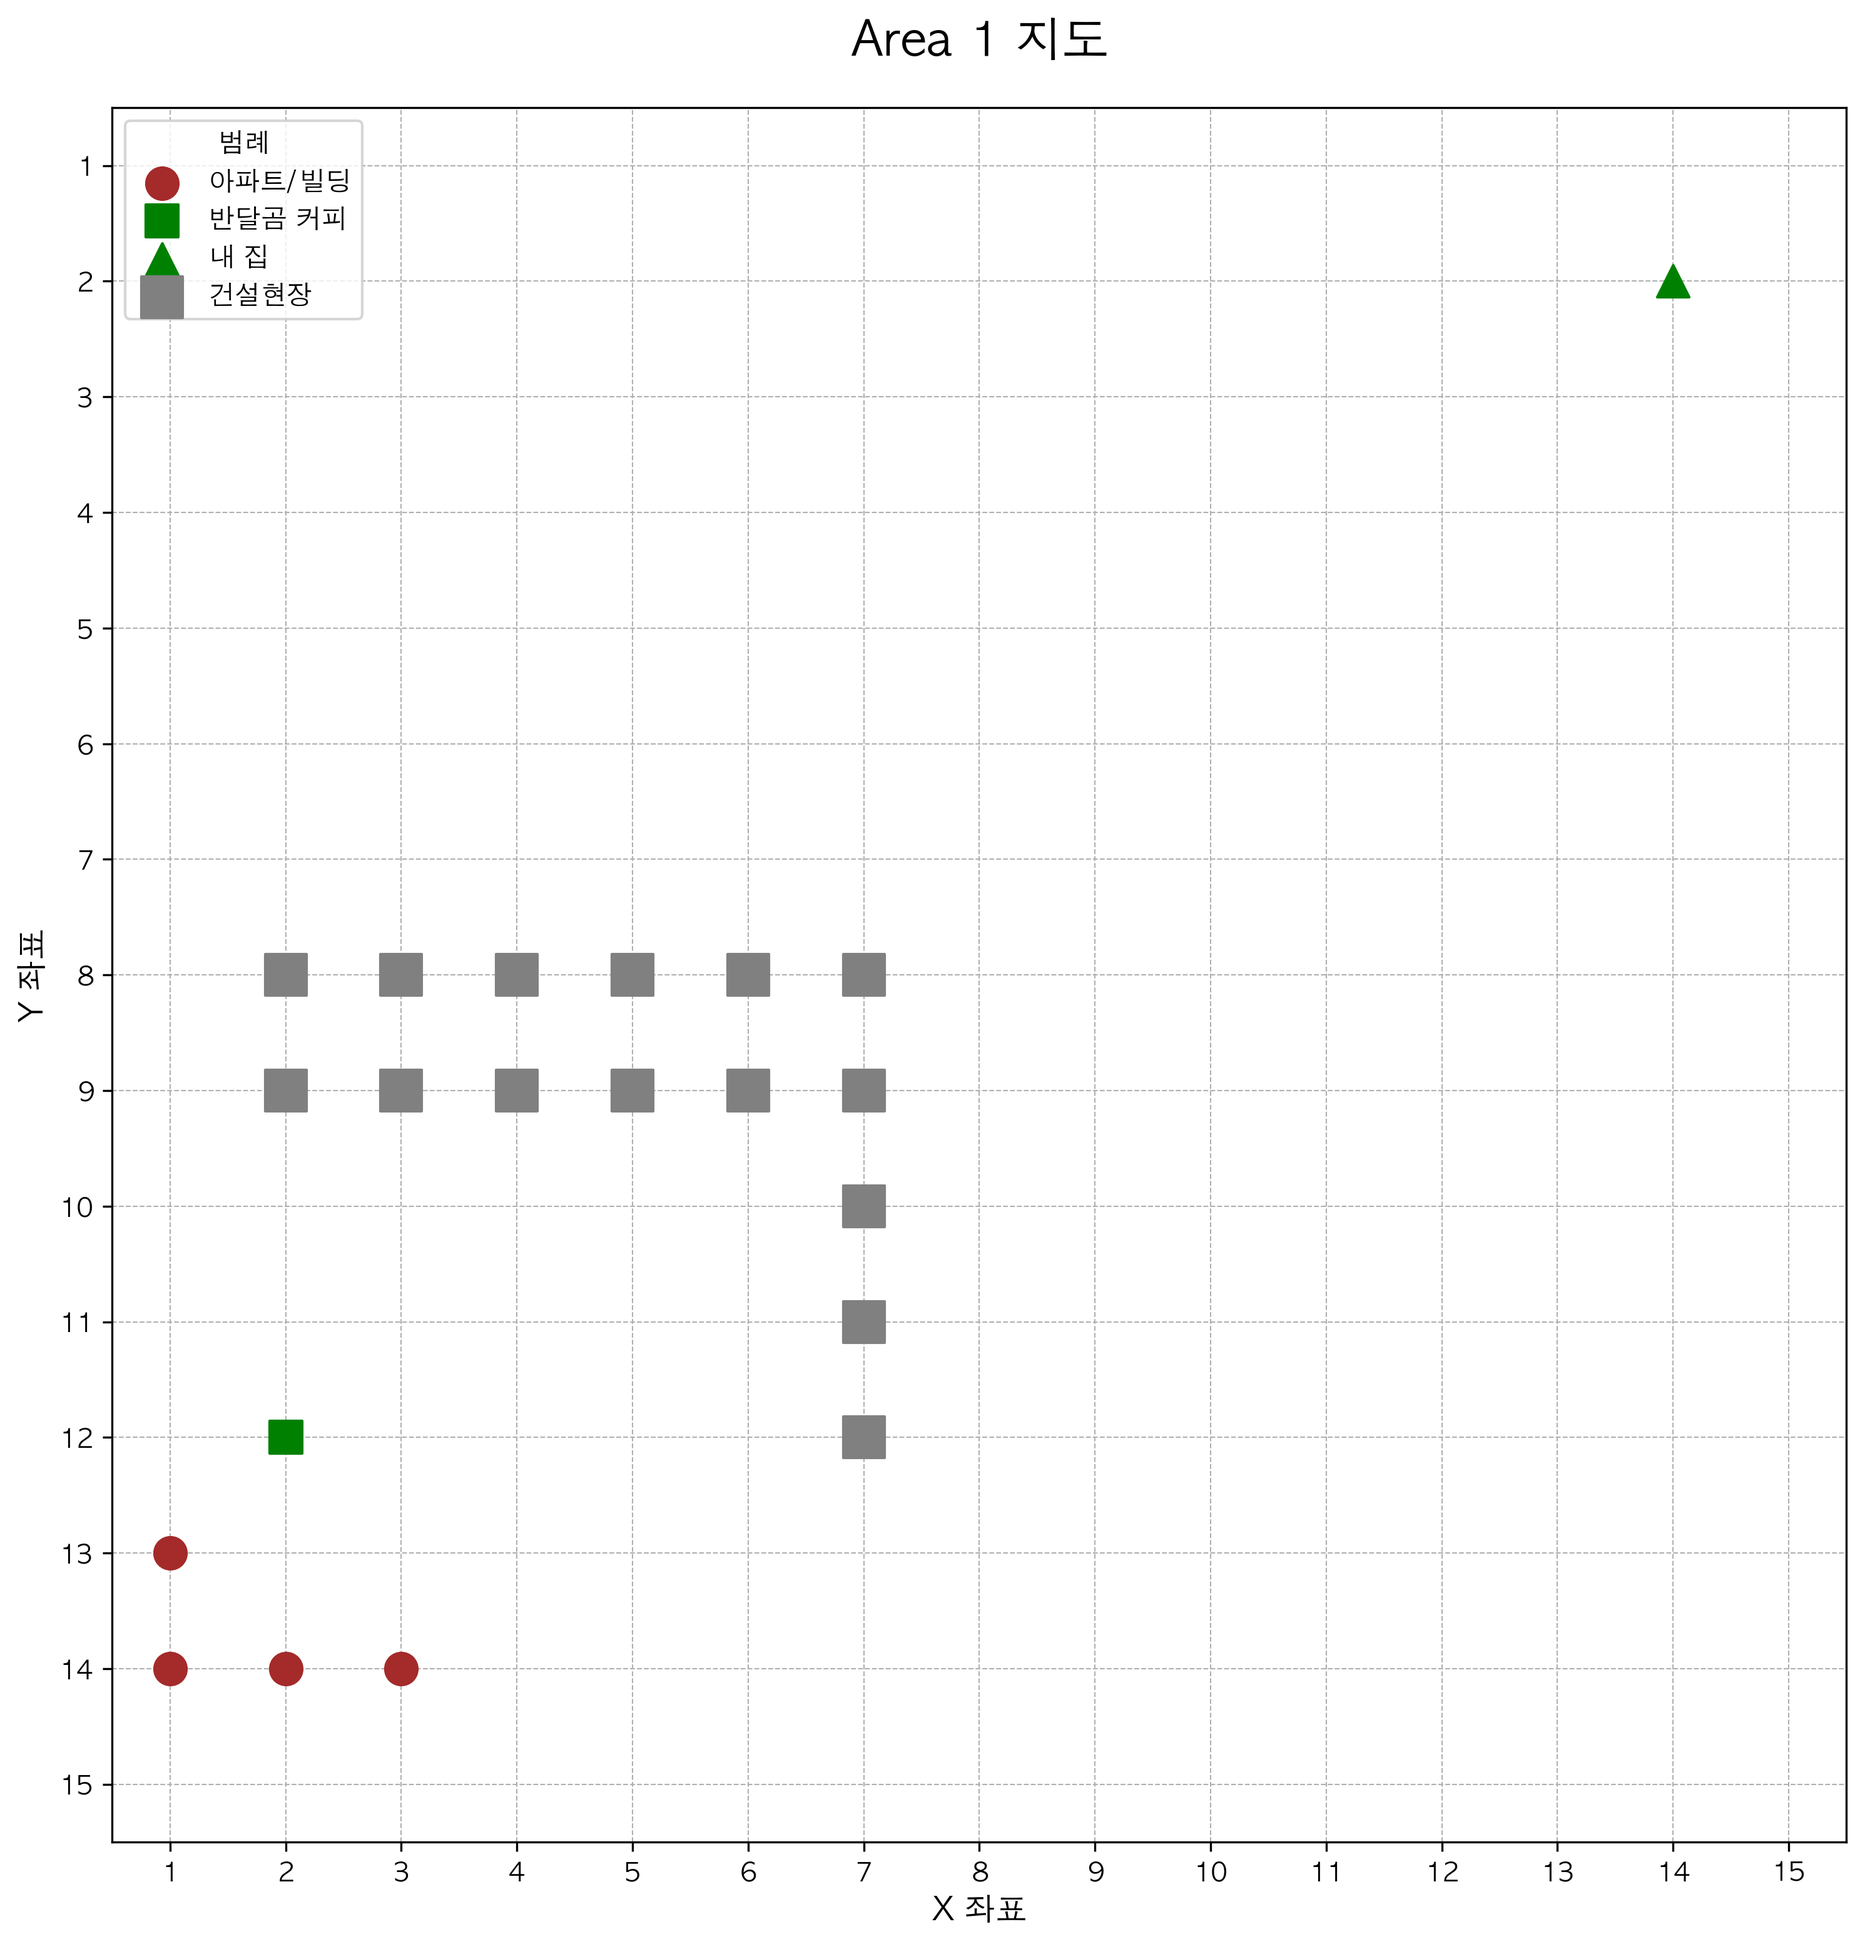
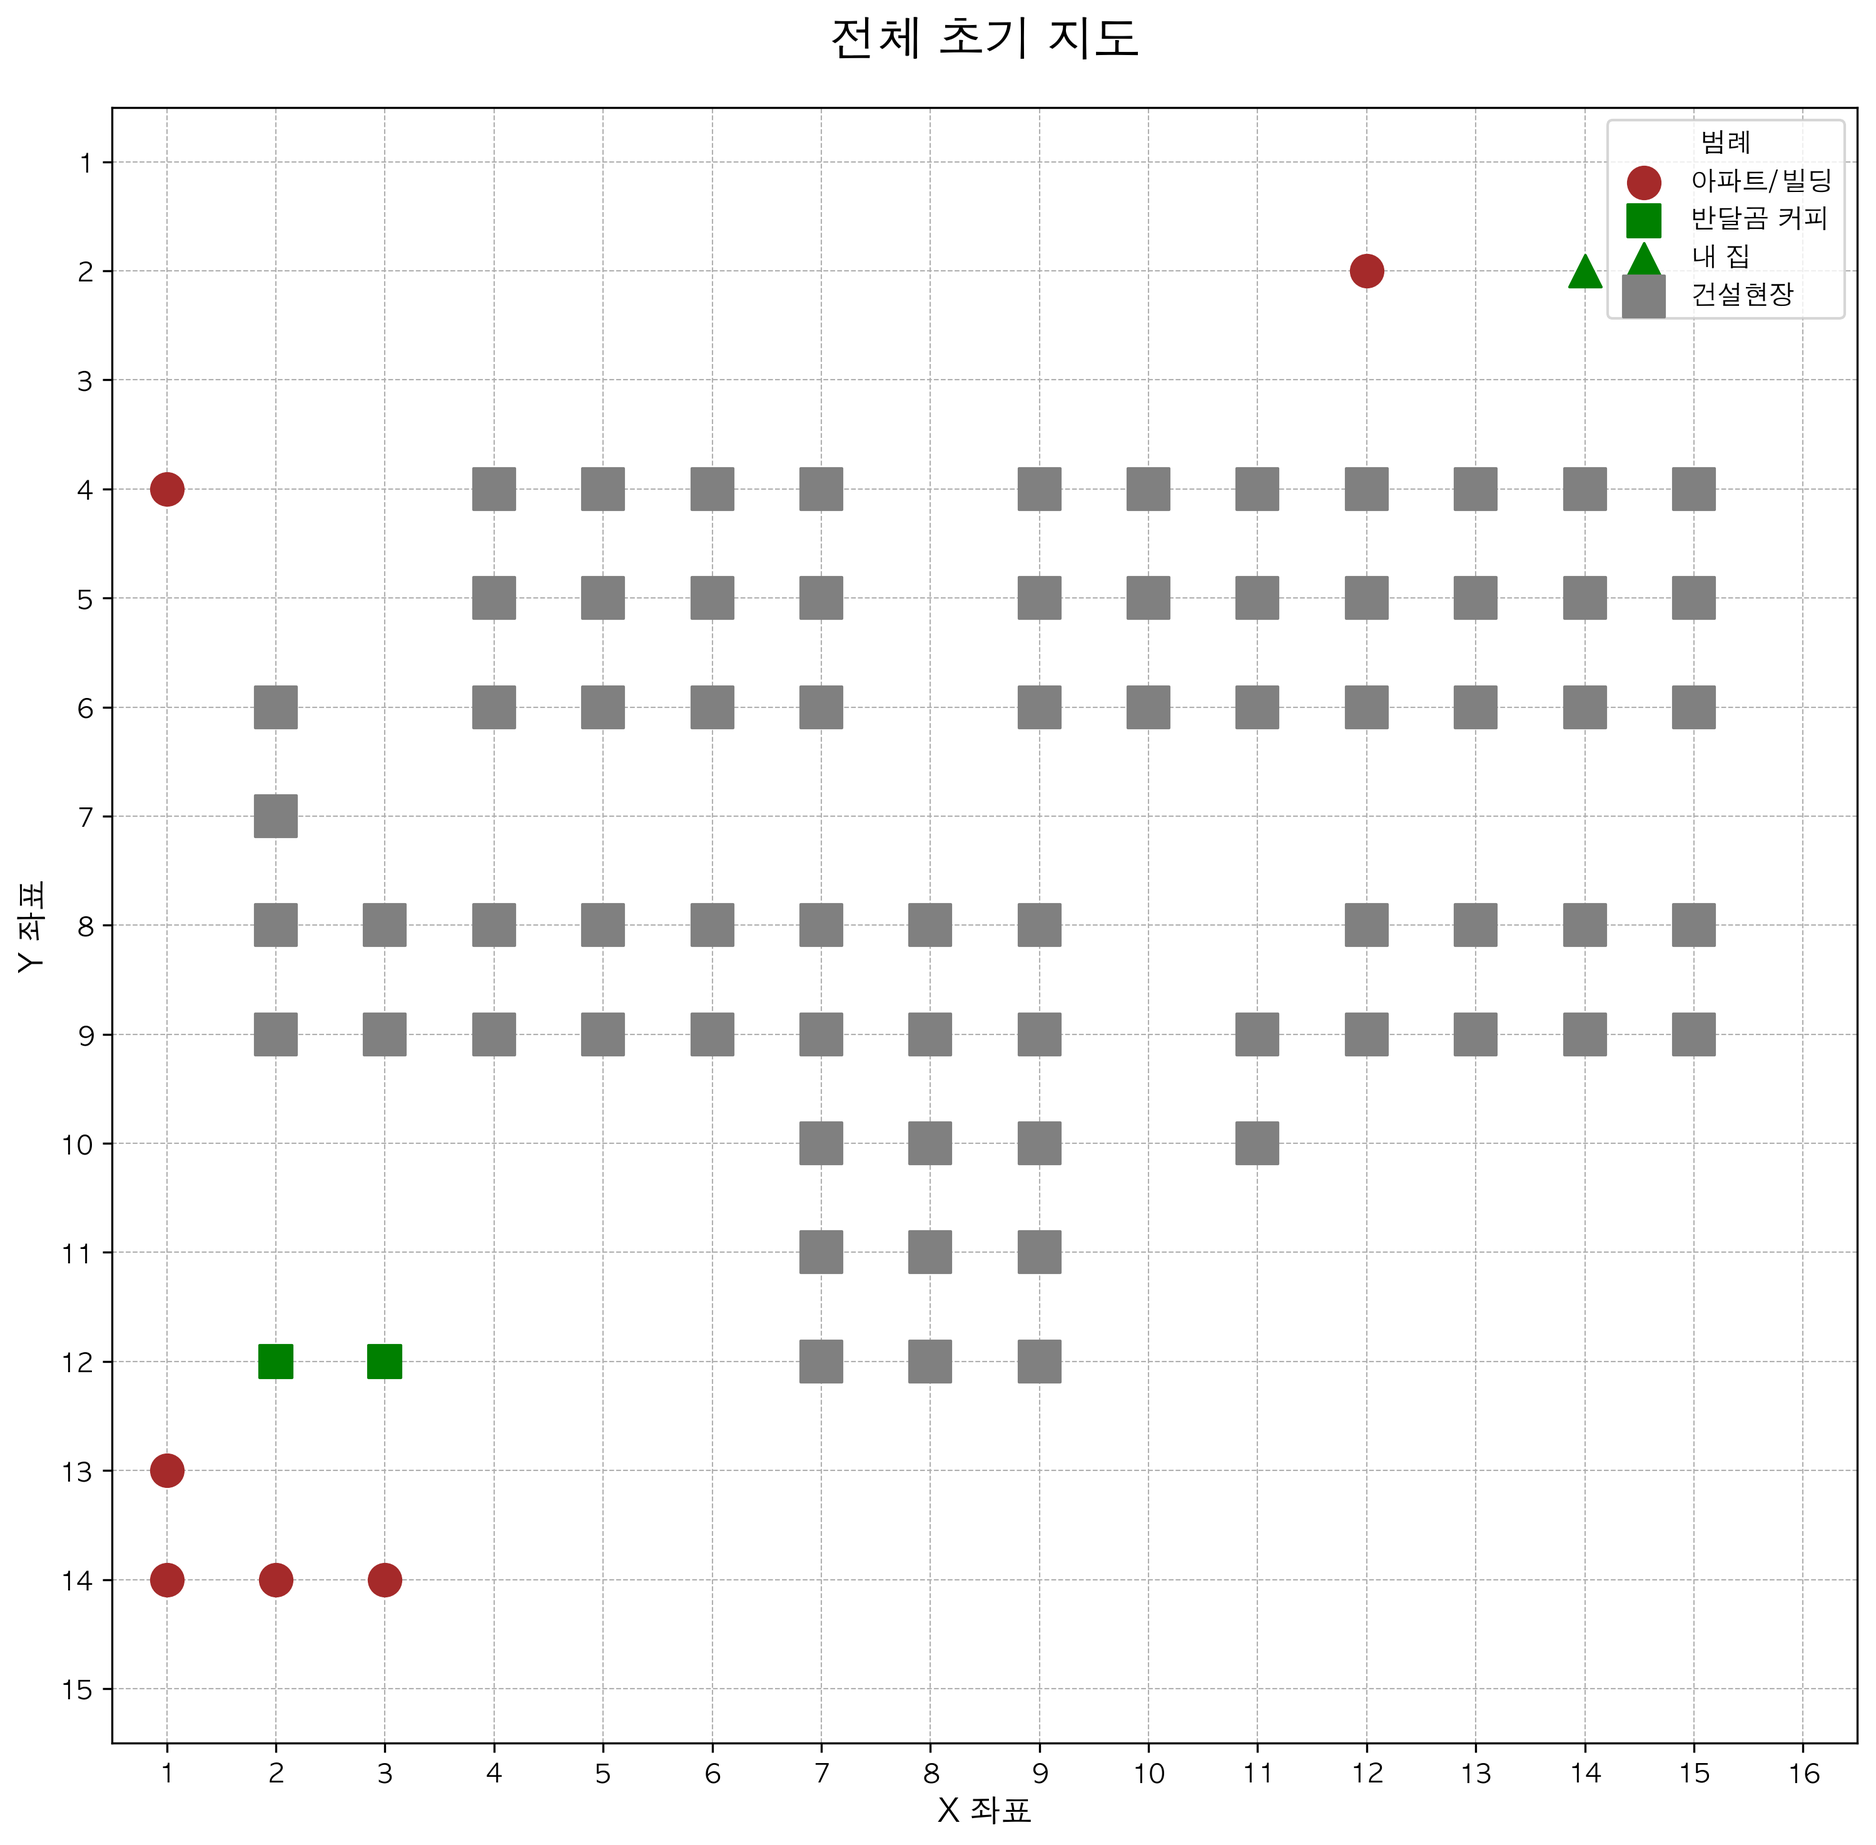
team

diff --git a/team.py b/team.py
@@ -26,9 +26,9 @@ MAP_FILE = 'area_map.csv'
 STRUCT_FILE = 'area_struct.csv'
 CATEGORY_FILE = 'area_category.csv'
 
-INITIAL_MAP_IMAGE = 'map.png'
-FINAL_MAP_IMAGE = 'map_final.png'
-PATH_CSV = 'home_to_cafe.csv'
+INITIAL_MAP_IMAGE = 'map.png' # 모든 area를 포함하는 초기 맵 파일명 변경
+FINAL_MAP_IMAGE = 'map_final.png' # 모든 area를 포함하는 최종 맵 파일명 변경
+PATH_CSV = 'home_to_cafe.csv' # 모든 area를 포함하는 경로 CSV 파일명 변경
 
 
 # ==============================================================================
@@ -37,7 +37,7 @@ PATH_CSV = 'home_to_cafe.csv'
 
 def analyze_and_filter_data():
     """
-    실제 CSV 파일 구조에 맞게 데이터를 병합하고 area 1에 대한 데이터를 필터링합니다.
+    실제 CSV 파일 구조에 맞게 데이터를 병합하고 모든 area 데이터를 필터링합니다.
     """
     print("--- 1단계: 데이터 분석 시작 ---")
     try:
@@ -64,35 +64,34 @@ def analyze_and_filter_data():
     # ConstructionSite가 1이면 이름을 'ConstructionSite'로 강제 설정합니다.
     df_merged.loc[df_merged['ConstructionSite'] == 1, 'name'] = 'ConstructionSite'
 
-    # 여기서 name 열의 공백을 제거합니다.
+    # name 열의 공백을 제거합니다.
     df_merged['name'] = df_merged['name'].str.strip()
 
-    # 4. 실제 구조물(category != 0)과 건설 현장만 필터링합니다.
-    final_df = df_merged[(df_merged['category'] != 0) | (df_merged['ConstructionSite'] == 1)].copy()
+    # 4. 실제 구조물(category != 0)과 건설 현장만 필터링합니다. (모든 area 포함)
+    final_df = df_merged[(df_merged['category'] != 0) | (df_merged['ConstructionSite'] == 1)].copy().reset_index(drop=True)
 
     # 5. 프로젝트의 다른 코드와 호환되도록 열 이름을 변경합니다.
     final_df.rename(columns={'x': 'loc_x', 'y': 'loc_y'}, inplace=True)
     
-    # 6. 필요한 열만 선택하고 area 1 데이터만 필터링합니다.
+    # 6. 필요한 열만 선택합니다. (이제 area 1으로 필터링하지 않습니다)
     final_df = final_df[['loc_x', 'loc_y', 'area', 'name']]
-    area1_df = final_df[final_df['area'] == 1].copy().reset_index(drop=True)
 
-    print("Area 1 데이터 필터링 완료.")
-    print(area1_df)
-
+    print("모든 Area 데이터 필터링 완료.")
+    print(final_df.head()) # 모든 area 포함된 데이터 확인
+    
     # (보너스) 구조물 종류별 요약 통계
-    print("\n--- [보너스] 구조물 종류별 요약 통계 (Area 1) ---")
-    summary = area1_df.groupby('name')[['loc_x', 'loc_y']].describe()
+    print("\n--- [보너스] 구조물 종류별 요약 통계 (전체 Area) ---")
+    summary = final_df.groupby(['area', 'name'])[['loc_x', 'loc_y']].describe()
     print(summary)
     print("-" * 30)
 
-    return area1_df
+    return final_df # 모든 area 데이터 반환
 
 # ==============================================================================
-# 🗺 2단계: 지도 시각화 (기존 코드와 동일)
+# 🗺 2단계: 지도 시각화 (모든 area를 포함하도록 수정)
 # ==============================================================================
 
-def draw_map(data_df, output_filename, title='Area 1 지도', path_coords=None):
+def draw_map(data_df, output_filename, title='전체 지도', path_coords=None): # 제목 변경
     print(f"--- 지도 시각화 시작 ({output_filename}) ---")
     if data_df is None or data_df.empty:
         print('오류: 시각화할 데이터가 없습니다.')
@@ -111,6 +110,7 @@ def draw_map(data_df, output_filename, title='Area 1 지도', path_coords=None):
     ax.set_xlabel('X 좌표', fontsize=12)
     ax.set_ylabel('Y 좌표', fontsize=12)
 
+    # 모든 area 데이터 기준으로 최대 x, y를 설정
     max_x = data_df['loc_x'].max() + 2
     max_y = data_df['loc_y'].max() + 2
     ax.set_xlim(0.5, max_x - 0.5)
@@ -120,6 +120,7 @@ def draw_map(data_df, output_filename, title='Area 1 지도', path_coords=None):
     ax.grid(True, linestyle='--', linewidth=0.5)
     ax.set_aspect('equal')
 
+    # 모든 area의 구조물을 그립니다.
     for name, style in styles.items():
         subset = data_df[data_df['name'] == name]
         if not subset.empty:
@@ -142,7 +143,7 @@ def draw_map(data_df, output_filename, title='Area 1 지도', path_coords=None):
     print("-" * 30)
 
 # ==============================================================================
-# 🚶 3단계: 최단 경로 탐색 (기존 코드와 동일)
+# 🚶 3단계: 최단 경로 탐색 (모든 area를 고려하도록 수정)
 # ==============================================================================
 
 def bfs_shortest_path(grid_size, obstacles, start, end):
@@ -165,25 +166,38 @@ def bfs_shortest_path(grid_size, obstacles, start, end):
                 visited.add(next_pos)
     return None
 
-def find_and_save_shortest_path(data_df):
+def find_and_save_shortest_path(all_data_df): # 모든 area 데이터를 받도록 변경
     print("--- 3단계: 최단 경로 탐색 시작 ---")
-    if data_df is None:
+    if all_data_df is None or all_data_df.empty:
+        print("오류: 경로 탐색을 위한 데이터가 없습니다.")
         return
 
-    start_node = data_df[data_df['name'] == 'MyHome']
-    end_node = data_df[data_df['name'] == 'BandalgomCoffee']
-    obstacles = set(tuple(x) for x in data_df[data_df['name'] == 'ConstructionSite'][['loc_x', 'loc_y']].to_numpy())
+    # 이제 area 필터링 없이 'MyHome'과 'BandalgomCoffee'를 찾습니다.
+    # 여러 개가 있을 경우 첫 번째 것을 사용합니다.
+    start_nodes = all_data_df[all_data_df['name'] == 'MyHome']
+    end_nodes = all_data_df[all_data_df['name'] == 'BandalgomCoffee']
+    
+    # 장애물은 모든 area의 ConstructionSite를 포함합니다.
+    obstacles = set(tuple(x) for x in all_data_df[all_data_df['name'] == 'ConstructionSite'][['loc_x', 'loc_y']].to_numpy())
 
-    if start_node.empty or end_node.empty:
+    if start_nodes.empty or end_nodes.empty:
         print("오류: 'MyHome' 또는 'BandalgomCoffee' 위치를 데이터에서 찾을 수 없습니다.")
-        # 디버깅을 위해 이 부분에 추가
-        print("start_node 내용:\n", start_node)
-        print("end_node 내용:\n", end_node)
+        # 디버깅을 위해 현재 데이터에 어떤 구조물이 있는지 출력
+        print("찾은 'MyHome' 노드:\n", start_nodes)
+        print("찾은 'BandalgomCoffee' 노드:\n", end_nodes)
         return
 
-    start_pos = (start_node.iloc[0]['loc_x'], start_node.iloc[0]['loc_y'])
-    end_pos = (end_node.iloc[0]['loc_x'], end_node.iloc[0]['loc_y'])
-    grid_size = (data_df['loc_x'].max() + 2, data_df['loc_y'].max() + 2)
+    # 첫 번째 'MyHome'과 'BandalgomCoffee'를 시작/종료 지점으로 사용
+    start_pos = (start_nodes.iloc[0]['loc_x'], start_nodes.iloc[0]['loc_y'])
+    end_pos = (end_nodes.iloc[0]['loc_x'], end_nodes.iloc[0]['loc_y'])
+    
+    # 그리드 크기는 모든 데이터의 최대 x, y 값을 기준으로 설정합니다.
+    grid_size = (all_data_df['loc_x'].max() + 2, all_data_df['loc_y'].max() + 2)
+
+    print(f"시작 위치 (MyHome): {start_pos}")
+    print(f"도착 위치 (BandalgomCoffee): {end_pos}")
+    print(f"건설 현장 (장애물 수): {len(obstacles)}개")
+    print(f"그리드 크기: {grid_size[0]-1}x{grid_size[1]-1}")
 
     path = bfs_shortest_path(grid_size, obstacles, start_pos, end_pos)
 
@@ -195,7 +209,8 @@ def find_and_save_shortest_path(data_df):
     path_df.to_csv(PATH_CSV, index=False)
     print(f"✔ '{PATH_CSV}' 파일 저장 완료.")
 
-    draw_map(data_df, FINAL_MAP_IMAGE, title='Area 1 지도 및 최단 경로', path_coords=path)
+    # 경로 시각화 시에도 모든 area 데이터를 기반으로 지도에 그립니다.
+    draw_map(all_data_df, FINAL_MAP_IMAGE, title='전체 지도 및 최단 경로', path_coords=path)
 
 # ==============================================================================
 # 🚀 메인 실행 로직
@@ -203,13 +218,16 @@ def find_and_save_shortest_path(data_df):
 
 if __name__ == '__main__':
     set_korean_font()
-    area1_data = analyze_and_filter_data()
+    # analyze_and_filter_data는 이제 모든 area 데이터를 반환합니다.
+    all_struct_data = analyze_and_filter_data() 
     
-    if area1_data is not None and not area1_data.empty:
-        draw_map(area1_data, INITIAL_MAP_IMAGE)
-        find_and_save_shortest_path(area1_data)
+    if all_struct_data is not None and not all_struct_data.empty:
+        # 초기 맵은 모든 area에 대한 데이터를 사용하여 그립니다.
+        draw_map(all_struct_data, INITIAL_MAP_IMAGE, title='전체 초기 지도') 
+        # find_and_save_shortest_path는 이제 전체 데이터를 받아 그 안에서 경로를 찾습니다.
+        find_and_save_shortest_path(all_struct_data)
         print("\n🎉 모든 작업이 성공적으로 완료되었습니다!")
-    elif area1_data is not None and area1_data.empty:
-        print("\n분석 결과 Area 1에 해당하는 구조물 데이터가 없습니다.")
+    elif all_struct_data is not None and all_struct_data.empty:
+        print("\n분석 결과 구조물 데이터가 없습니다.")
     else:
         print("\n데이터 분석 단계에서 오류가 발생하여 작업을 중단합니다.")

diff --git a/doc/bonus.md b/doc/bonus.md
@@ -1,0 +1,61 @@
+아래에 두 가지 보너스 과제 내용을 각각 정리해 드릴게요. 보고서나 과제 제출용으로 적합하도록 깔끔하게 작성했습니다.
+
+---
+
+# 보너스 과제 1: Flask와 Gunicorn의 차이 및 배포 시 Gunicorn 사용 이유
+
+## 1. Flask와 Gunicorn의 차이
+
+* **Flask**
+
+  * Python으로 작성된 경량 웹 프레임워크이다.
+  * 개발자가 웹 애플리케이션을 쉽게 만들 수 있도록 도와주는 라이브러리 및 도구들의 집합이다.
+  * 기본 내장 웹 서버(`flask run` 또는 `app.run()`)는 개발 및 테스트용으로 적합하며, 프로덕션 환경에 적합하지 않다.
+
+* **Gunicorn (Green Unicorn)**
+
+  * Python WSGI(Web Server Gateway Interface) HTTP 서버이다.
+  * Flask 같은 WSGI 애플리케이션을 빠르고 안정적으로 실행하기 위한 프로덕션용 웹 서버이다.
+  * 다중 워커 프로세스를 지원해 높은 동시 처리량과 안정성을 제공한다.
+
+## 2. 배포 시 Gunicorn을 사용하는 이유
+
+* Flask 기본 서버는 **단일 스레드**로 동작하며, 고성능이나 다중 요청 처리를 위한 기능이 부족하다.
+* Gunicorn은 **멀티 프로세스, 멀티 스레드**를 지원해 여러 클라이언트 요청을 동시에 처리할 수 있다.
+* 안정성과 성능 최적화가 되어 있어 \*\*실제 서비스 환경(프로덕션)\*\*에 적합하다.
+* Gunicorn을 앞단에 두고 Nginx 같은 리버스 프록시 서버와 연동하면 확장성과 보안성을 더욱 높일 수 있다.
+
+---
+
+# 보너스 과제 2: .dockerignore 파일의 역할과 각 항목 추가 이유
+
+## 1. `.dockerignore` 파일의 역할
+
+* `.dockerignore` 파일은 도커 이미지 빌드 시 **빌드 컨텍스트에 포함하지 않을 파일이나 디렉토리 목록**을 지정하는 파일이다.
+* 이를 통해 빌드 속도를 향상시키고, 이미지 크기를 줄이며, 불필요한 파일이 컨테이너에 복사되는 것을 방지한다.
+* 예를 들어, Git 버전관리 파일이나 도커 관련 설정 파일, 캐시 파일 등을 제외할 수 있다.
+
+## 2. 각 항목 추가 이유
+
+* **`.git`**
+
+  * Git 저장소 관련 모든 버전관리 파일과 폴더이다.
+  * 소스 코드 버전 관리에만 필요하고, 컨테이너 실행에는 불필요하므로 제외한다.
+
+* **`.gitignore`**
+
+  * Git에서 추적하지 않을 파일을 지정하는 설정 파일이다.
+  * 컨테이너 내에서는 필요 없으며, 빌드 컨텍스트에서 제외해 빌드 속도를 개선한다.
+
+* **`.dockerignore`**
+
+  * 자기 자신도 빌드 컨텍스트에 포함하지 않아 불필요한 중복 복사를 방지한다.
+
+* **`Dockerfile`**
+
+  * 도커 빌드 시 `Dockerfile`은 빌드 명령어로 사용되기 때문에, 이미지 내부에는 복사할 필요가 없다.
+  * 이미지 크기를 줄이고, 불필요한 파일 복사를 막기 위해 제외한다.
+
+---
+
+
